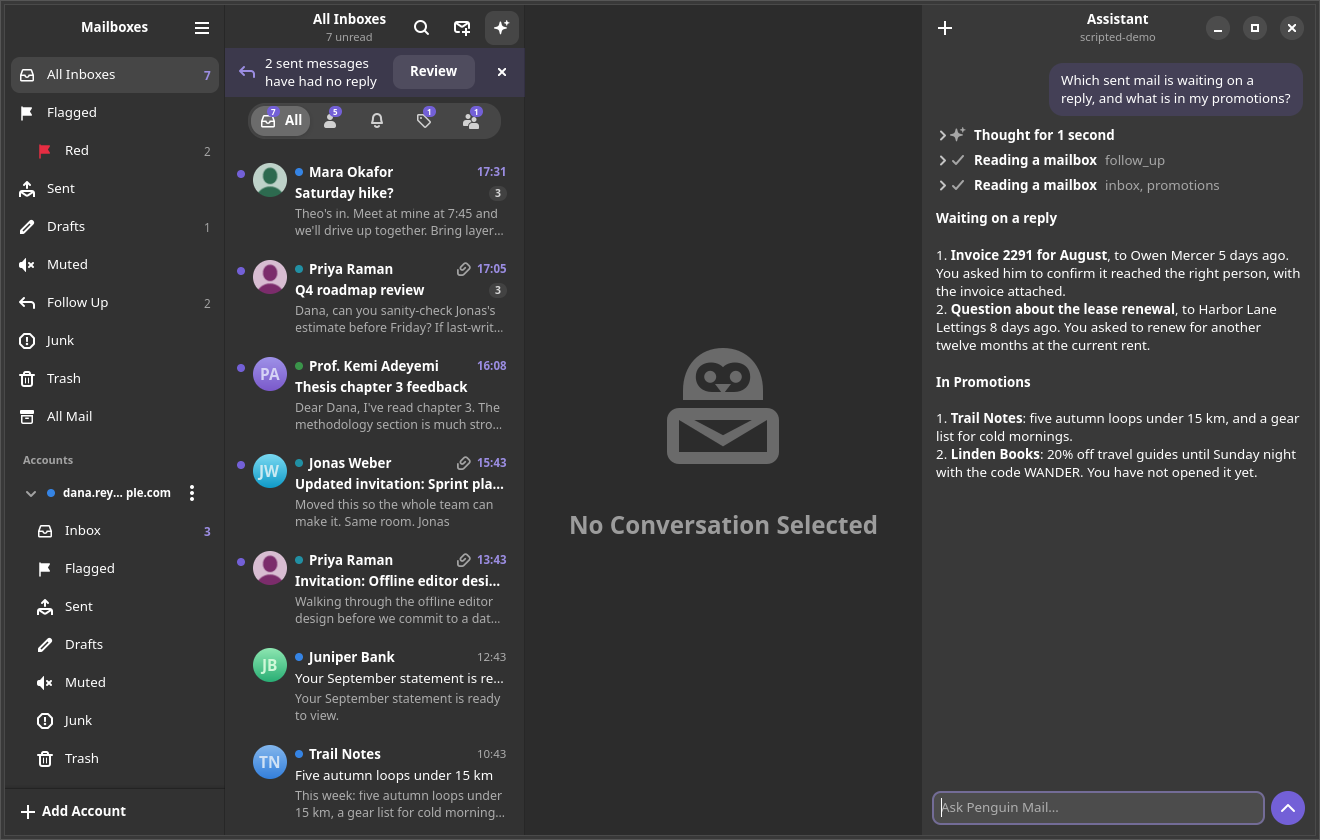
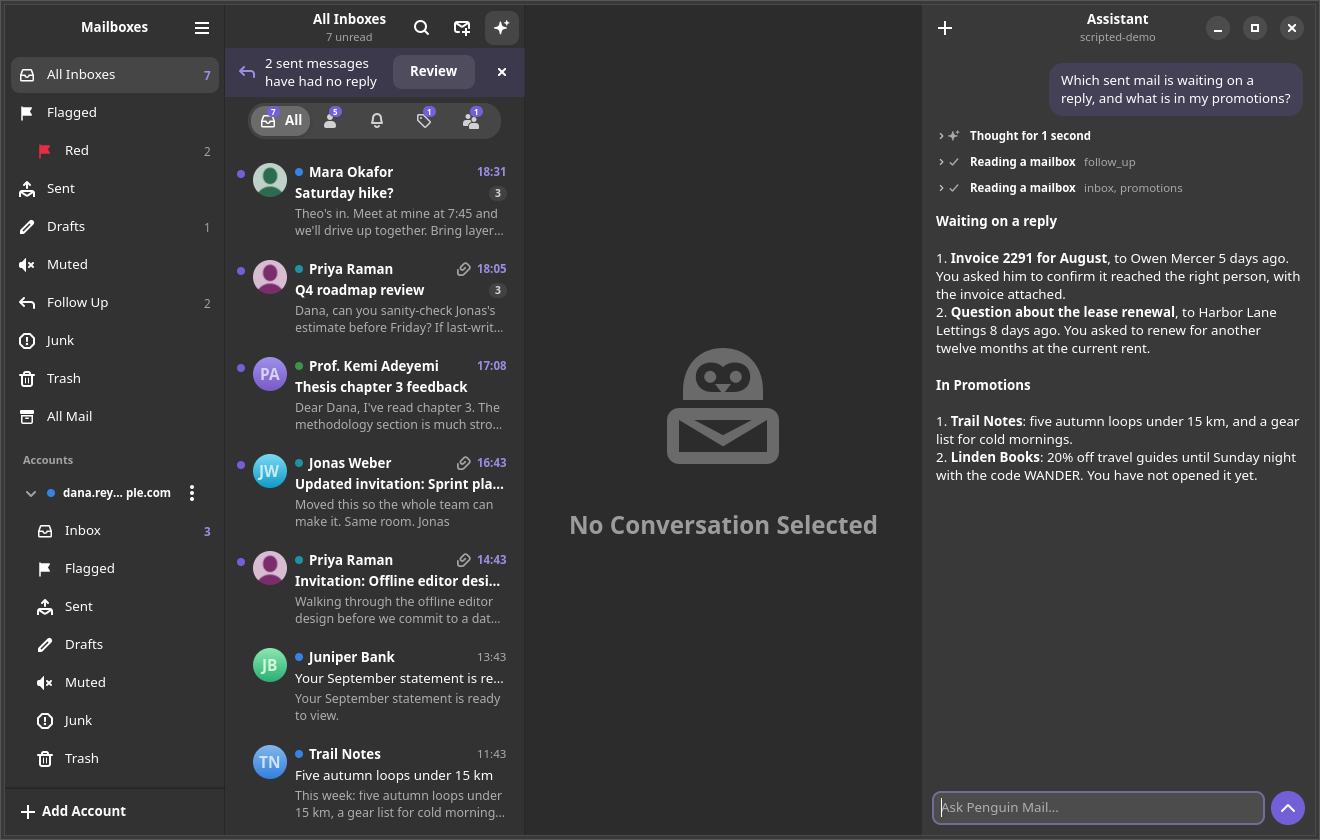
Set the assistant's thinking and tool rows in smaller type
The rows read at the same size as the reply and drew a full-size chevron
and status icon, so the steps competed with the answer. Their titles now
sit a size down, the chevron is 10 px and the status icons 12 px. The
old title rules also missed the node they were meant for, because GTK 4
puts a box between the expander and its title.

Changed region(s): [[0.7144, 0.1548, 0.9939, 0.4643], [0.7144, 0.4952, 0.9939, 0.5881]]

diff --git a/app/data/style.css b/app/data/style.css
@@ -163,8 +163,17 @@
 }
 .assistant-reply { padding-left: 2px; padding-right: 2px; }
 /* A turn's thinking and tool rows: one quiet line each until opened. */
-.assistant-step > title { padding: 3px 2px; border-radius: 6px; }
-.assistant-step > title:hover { background: alpha(currentColor, 0.06); }
+/* GTK 4 puts a box between the expander and its title, so these match
+   any depth. The row reads as a quiet aside to the reply: a size smaller
+   than the reply text, with a small chevron. */
+.assistant-step title { padding: 2px 2px; border-radius: 6px; font-size: 0.86em; }
+.assistant-step title:hover { background: alpha(currentColor, 0.06); }
+.assistant-step title > expander {
+  min-width: 10px;
+  min-height: 10px;
+  -gtk-icon-size: 10px;
+  margin-right: 2px;
+}
 .assistant-step-title { font-weight: 600; }
 .assistant-step-body { margin-top: 4px; margin-bottom: 4px; }
 .assistant-thinking { margin-top: 2px; margin-bottom: 4px; }

diff --git a/app/src/ui/assistant.rs b/app/src/ui/assistant.rs
@@ -711,7 +711,7 @@ struct Detail {
 impl Detail {
     fn new(open: bool) -> Detail {
         let mark = gtk::Box::builder()
-            .width_request(16)
+            .width_request(14)
             .halign(gtk::Align::Center)
             .valign(gtk::Align::Center)
             .build();
@@ -750,8 +750,8 @@ impl Detail {
             Mark::Working => {
                 self.mark.append(
                     &adw::Spinner::builder()
-                        .width_request(14)
-                        .height_request(14)
+                        .width_request(12)
+                        .height_request(12)
                         .build(),
                 );
                 return;
@@ -761,6 +761,8 @@ impl Detail {
             Mark::Failed => "dialog-warning-symbolic",
         };
         let image = gtk::Image::from_icon_name(icon);
+        // Sized to the row's smaller text rather than the usual 16 px.
+        image.set_pixel_size(12);
         image.add_css_class(match mark {
             Mark::Failed => "warning",
             _ => "dim-label",

diff --git a/CHANGELOG.md b/CHANGELOG.md
@@ -37,6 +37,8 @@ the [releases page](https://github.com/c9dev/penguin-mail/releases).
 
 ### Improved
 
+- The thinking and tool rows under an answer use smaller text and a
+  smaller arrow, so they sit quietly beside the reply.
 - Your mail, settings and cache folders can only be opened by your own
   user account, not by other people who use the same computer.
 
